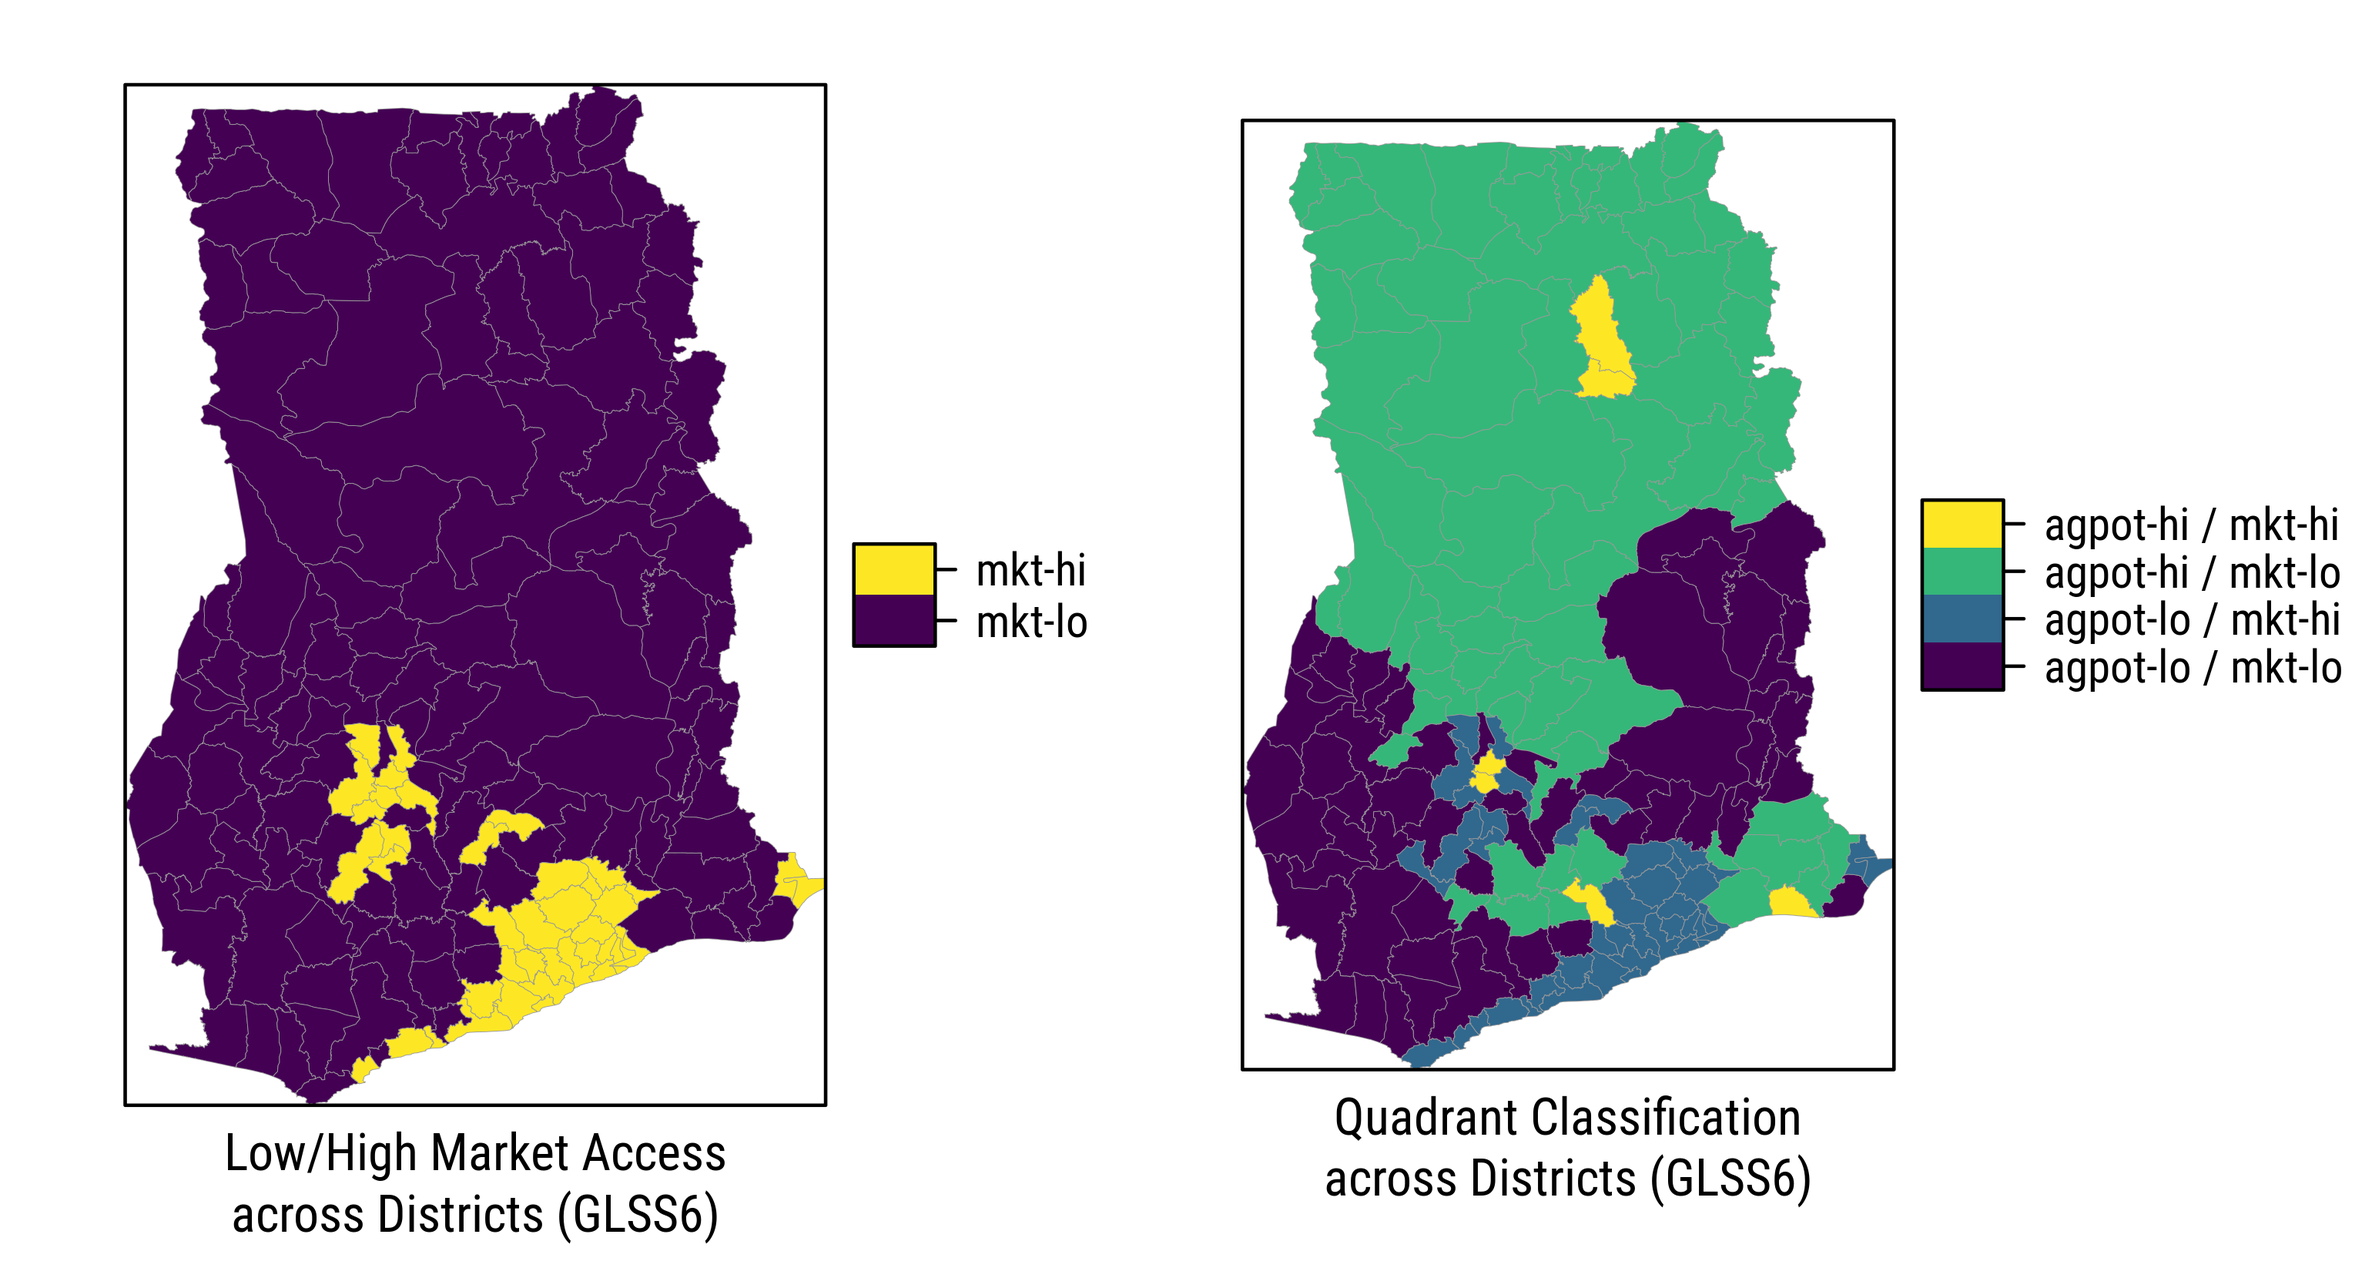
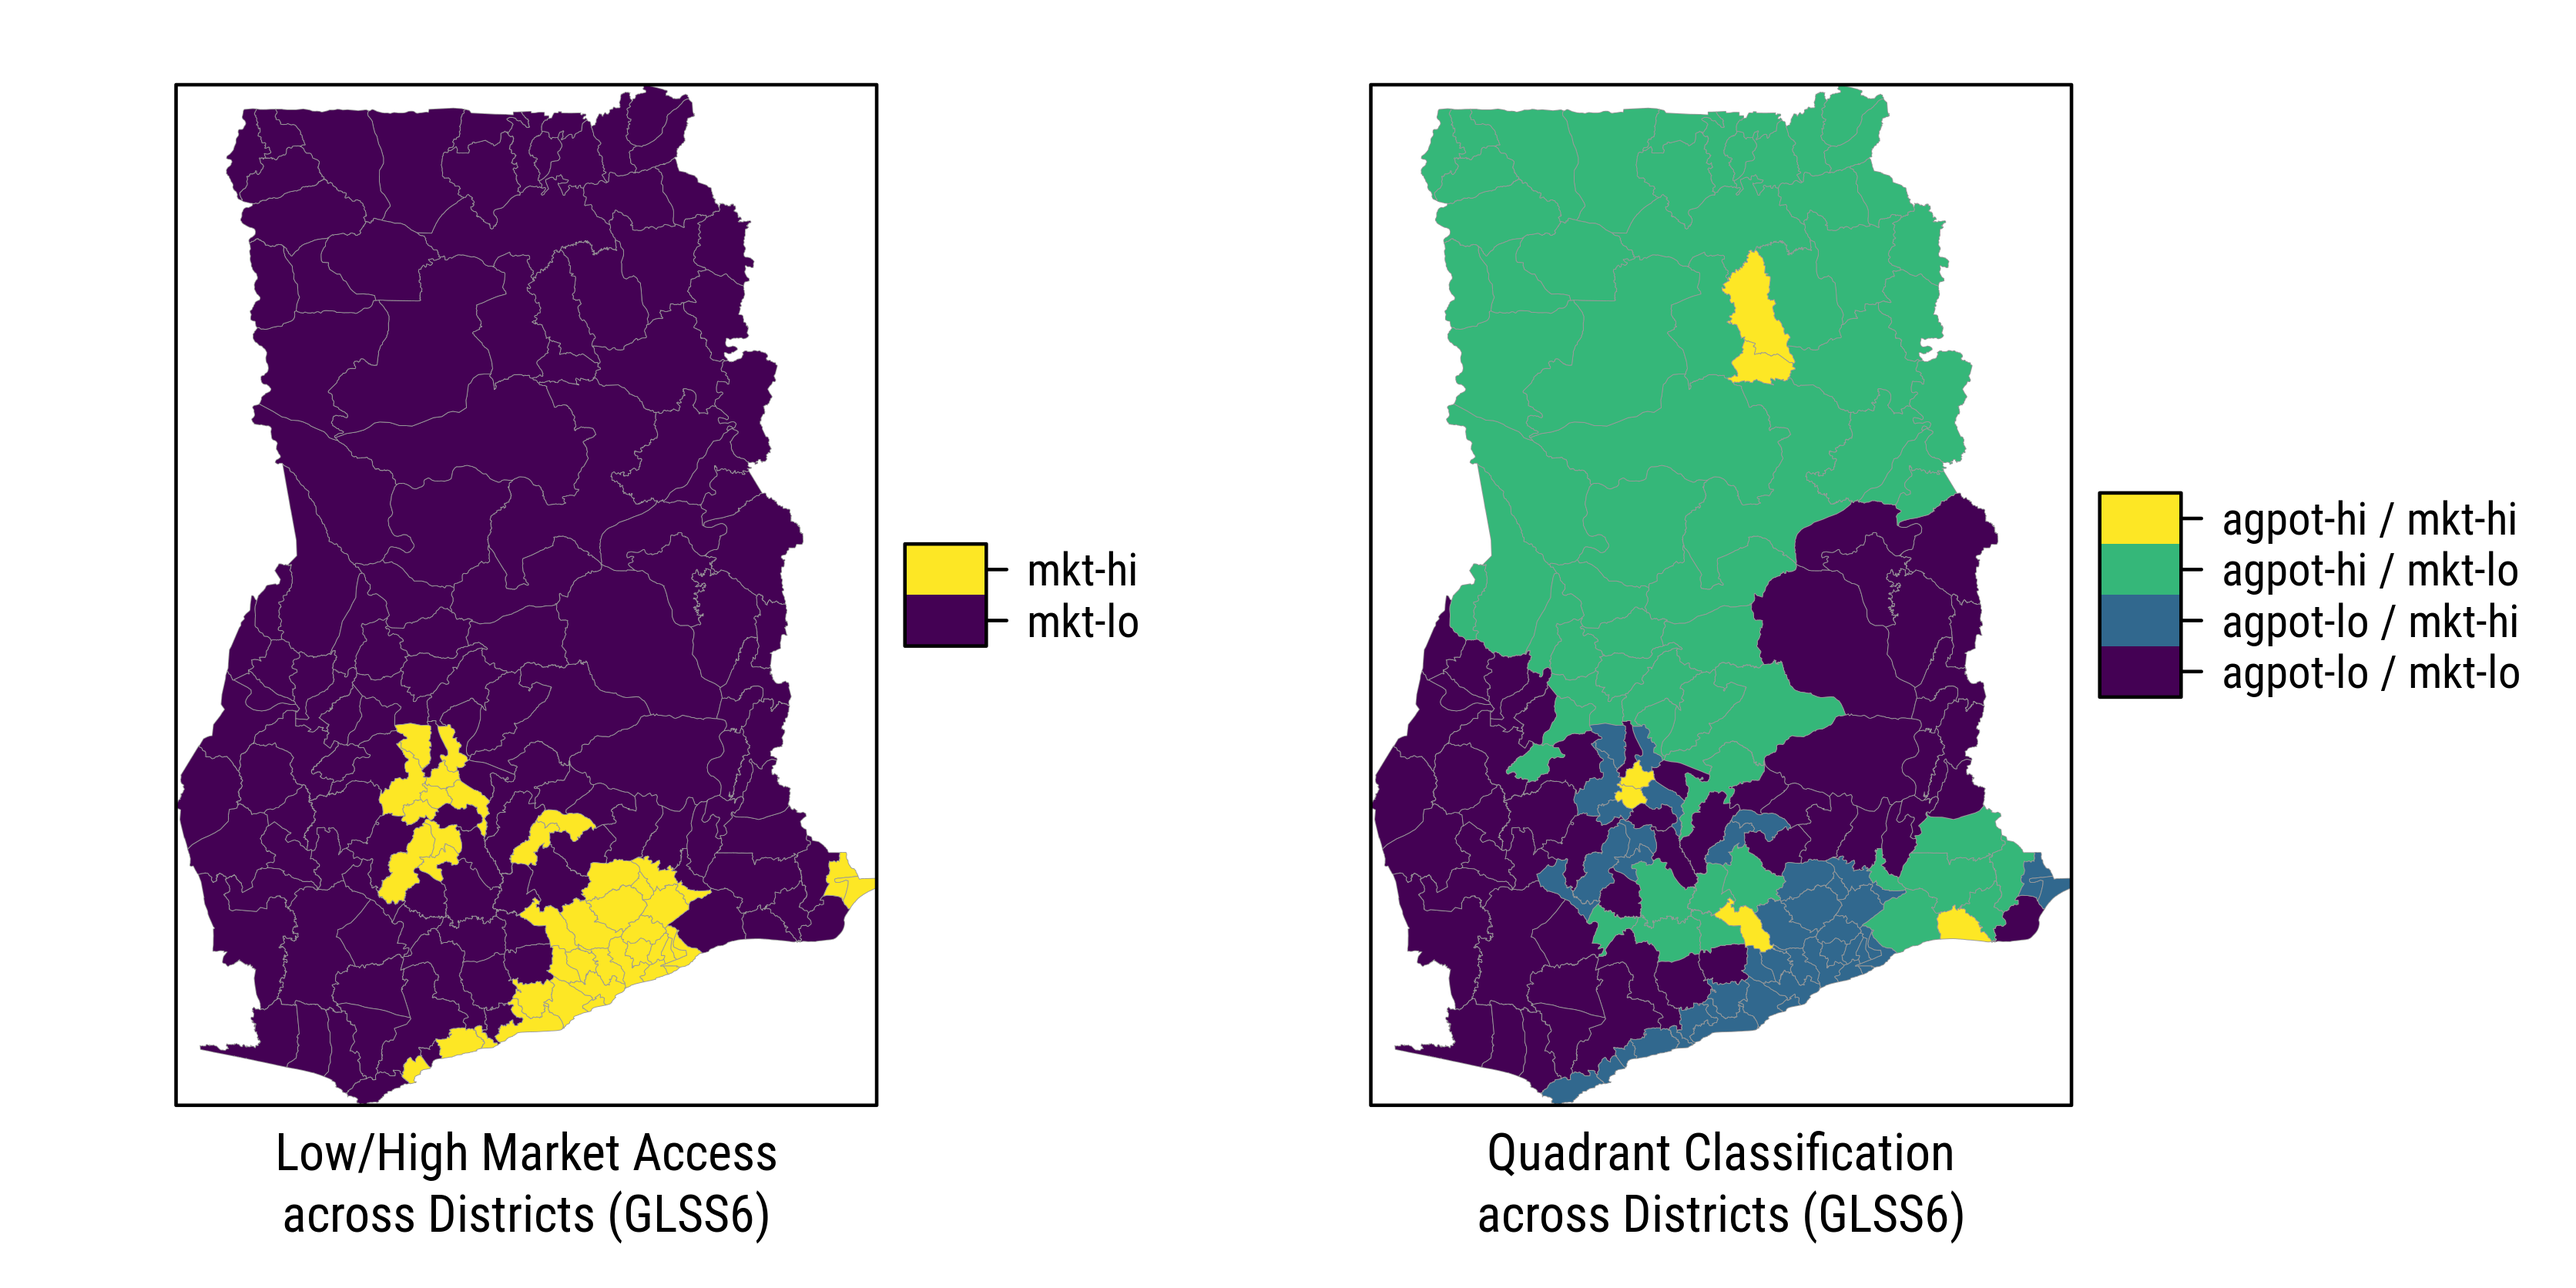
corrected travel time to 100K

diff --git a/docs/ghana-1.html b/docs/ghana-1.html
@@ -7884,16 +7884,16 @@ Fig. 4.14: Est. Input Uses for Farm Holdings below 4 ha across Farm Types (2012/
 </div>
 <div id="revised-development-domains" class="section level3">
 <h3><span class="header-section-number">4.2.6</span> Revised Development Domains</h3>
-<p>In this section we combine results from the farm typology developed in <a href="./typology-of-farm-holdings.html">Section 3</a> with the spatial dimensions outlined above (agricultural suitability and market access using <strong>GLUES suitability</strong> product and travel time to nearest <strong>100K</strong> market).</p>
+<p>In this section we combine results from the farm typology developed in <a href="./typology-of-farm-holdings.html">Section 3</a> with the spatial dimensions outlined above (agricultural suitability and market access using <strong>GLUES suitability</strong> product and IFPRI/HarvestChoice travel time to nearest <strong>100K</strong> market).</p>
 <div class="figure"><span id="fig:unnamed-chunk-16"></span>
-<img src="fig/glues_suit.png" alt="GLUES Suitability (Ghana, 2011)"  />
+<img src="fig/glues_suit.png" alt="GLUES Suitability (Ghana, 1980-2011)" width="380px" />
 <p class="caption">
-Fig. 4.15: GLUES Suitability (Ghana, 2011)
+Fig. 4.15: GLUES Suitability (Ghana, 1980-2011)
 </p>
 </div>
-<p>Ghana’s districts classified across areas of lo/hi ag. potential and lo/hi market access (using below/above <strong>4hrs</strong> travel time to nearest <strong>100K</strong> market).</p>
+<p>The 2 maps below show Ghana’s districts (GLSS6) classified across areas of lo/hi ag. potential and lo/hi market access (using below/above <strong>4hrs</strong> travel time to nearest <strong>100K</strong> market).</p>
 <div class="figure"><span id="fig:unnamed-chunk-17"></span>
-<img src="fig/unnamed-chunk-17-1.png" alt="Spatial Quadrant Segmentation" width="1540" />
+<img src="fig/unnamed-chunk-17-1.png" alt="Spatial Quadrant Segmentation" width="1672" />
 <p class="caption">
 Fig. 4.16: Spatial Quadrant Segmentation
 </p>
